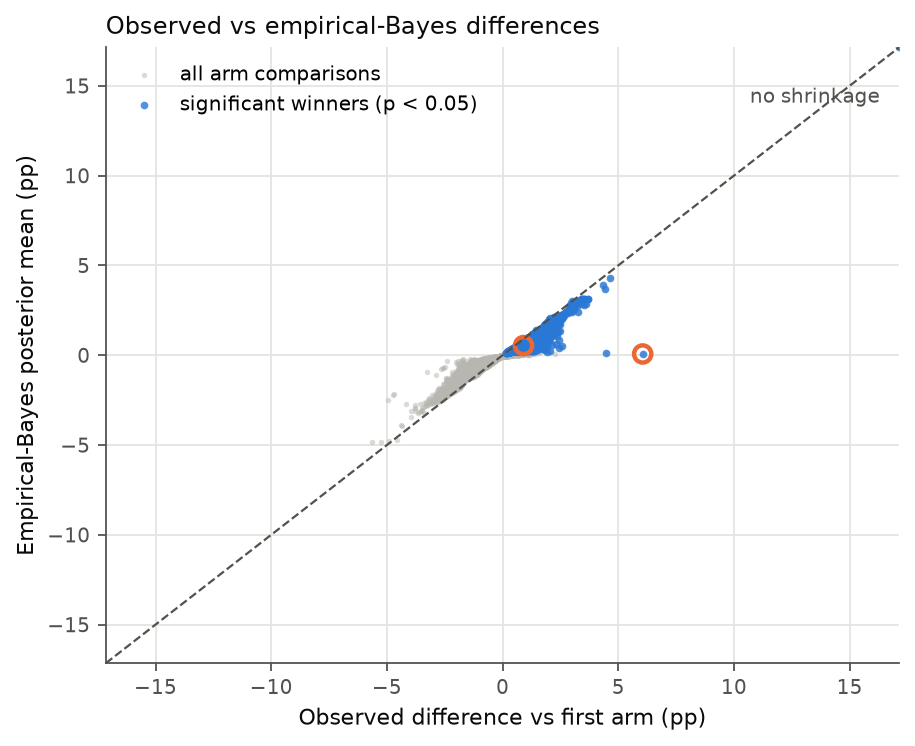
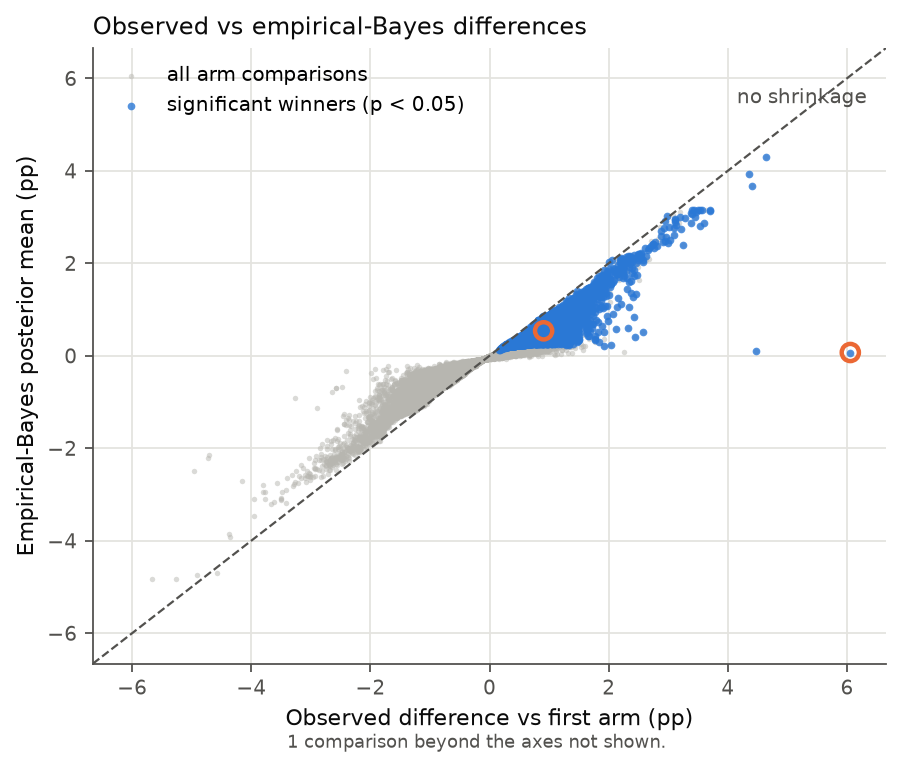
Tighten the shrinkage figure's axes; record it in DEVIATIONS.md

diff --git a/forensics/plots.py b/forensics/plots.py
@@ -92,7 +92,9 @@ def shrinkage_plot(comp, sig, examples, path: Path):
                linewidths=0, label="all arm comparisons")
     ax.scatter(sig["diff"] * 100, sig["post_grid"] * 100, s=12, color=BLUE, alpha=0.8, linewidths=0,
                label="significant winners (p < 0.05)")
-    lim = max(abs(comp["diff"]).quantile(0.999), abs(sig["diff"]).max()) * 100
+    ex_max = max((abs(e["observed_pp"]) for e in examples), default=0)
+    lim = max(abs(comp["diff"]).quantile(0.999) * 100, abs(sig["diff"]).quantile(0.995) * 100, ex_max) * 1.1
+    clipped = int(((abs(comp["diff"]) * 100 > lim) | (abs(comp["post_grid"]) * 100 > lim)).sum())
     ax.plot([-lim, lim], [-lim, lim], color=MUTED, lw=1, ls="--")
     ax.text(lim * 0.95, lim * 0.82, "no shrinkage", color=MUTED, fontsize=9, ha="right")
     for e in examples:
@@ -102,6 +104,8 @@ def shrinkage_plot(comp, sig, examples, path: Path):
     ax.set_xlabel("Observed difference vs first arm (pp)", color=INK)
     ax.set_ylabel("Empirical-Bayes posterior mean (pp)", color=INK)
     ax.set_title("Observed vs empirical-Bayes differences", color=INK, fontsize=11, loc="left")
+    if clipped:
+        fig.text(0.5, 0.005, f"{clipped} comparison{'s' if clipped != 1 else ''} beyond the axes not shown.", ha="center", color=MUTED, fontsize=8)
     ax.legend(frameon=False, fontsize=9, loc="upper left")
     _style(ax)
     _save(fig, path)

diff --git a/README.md b/README.md
@@ -65,6 +65,8 @@ and test on the other. This project uses them that way:
    the list of numbers to compare, each with the criterion it has to meet to count as replicating.
 3. The plan was committed, then the lock file in a separate commit, then the confirmatory analysis ran
    once (see the git history).
+   Changes made after the lock are listed in [`DEVIATIONS.md`](DEVIATIONS.md), since editing the locked
+   plan would break its digest.
    `forensics` refuses to load the confirmatory file unless `ANALYSIS_PLAN.lock` exists, and if the lock
    holds a sha256 digest it must match the plan.
 

diff --git a/DEVIATIONS.md b/DEVIATIONS.md
@@ -1,0 +1,9 @@
+# Deviations from the locked plan
+
+`ANALYSIS_PLAN.md` is locked by digest, so changes made after the lock are recorded here instead of in the
+plan itself.
+
+- **2026-10-18, after the confirmatory run.** The shrinkage figure's axis limits were tightened so the bulk
+  of the points is readable. One outlying comparison now falls outside the axes, and the figure says so.
+  Both runs were regenerated; `reports/results_*.json`, `reports/exploratory.md` and
+  `reports/confirmatory.md` are byte-identical to before. No numbers changed.
